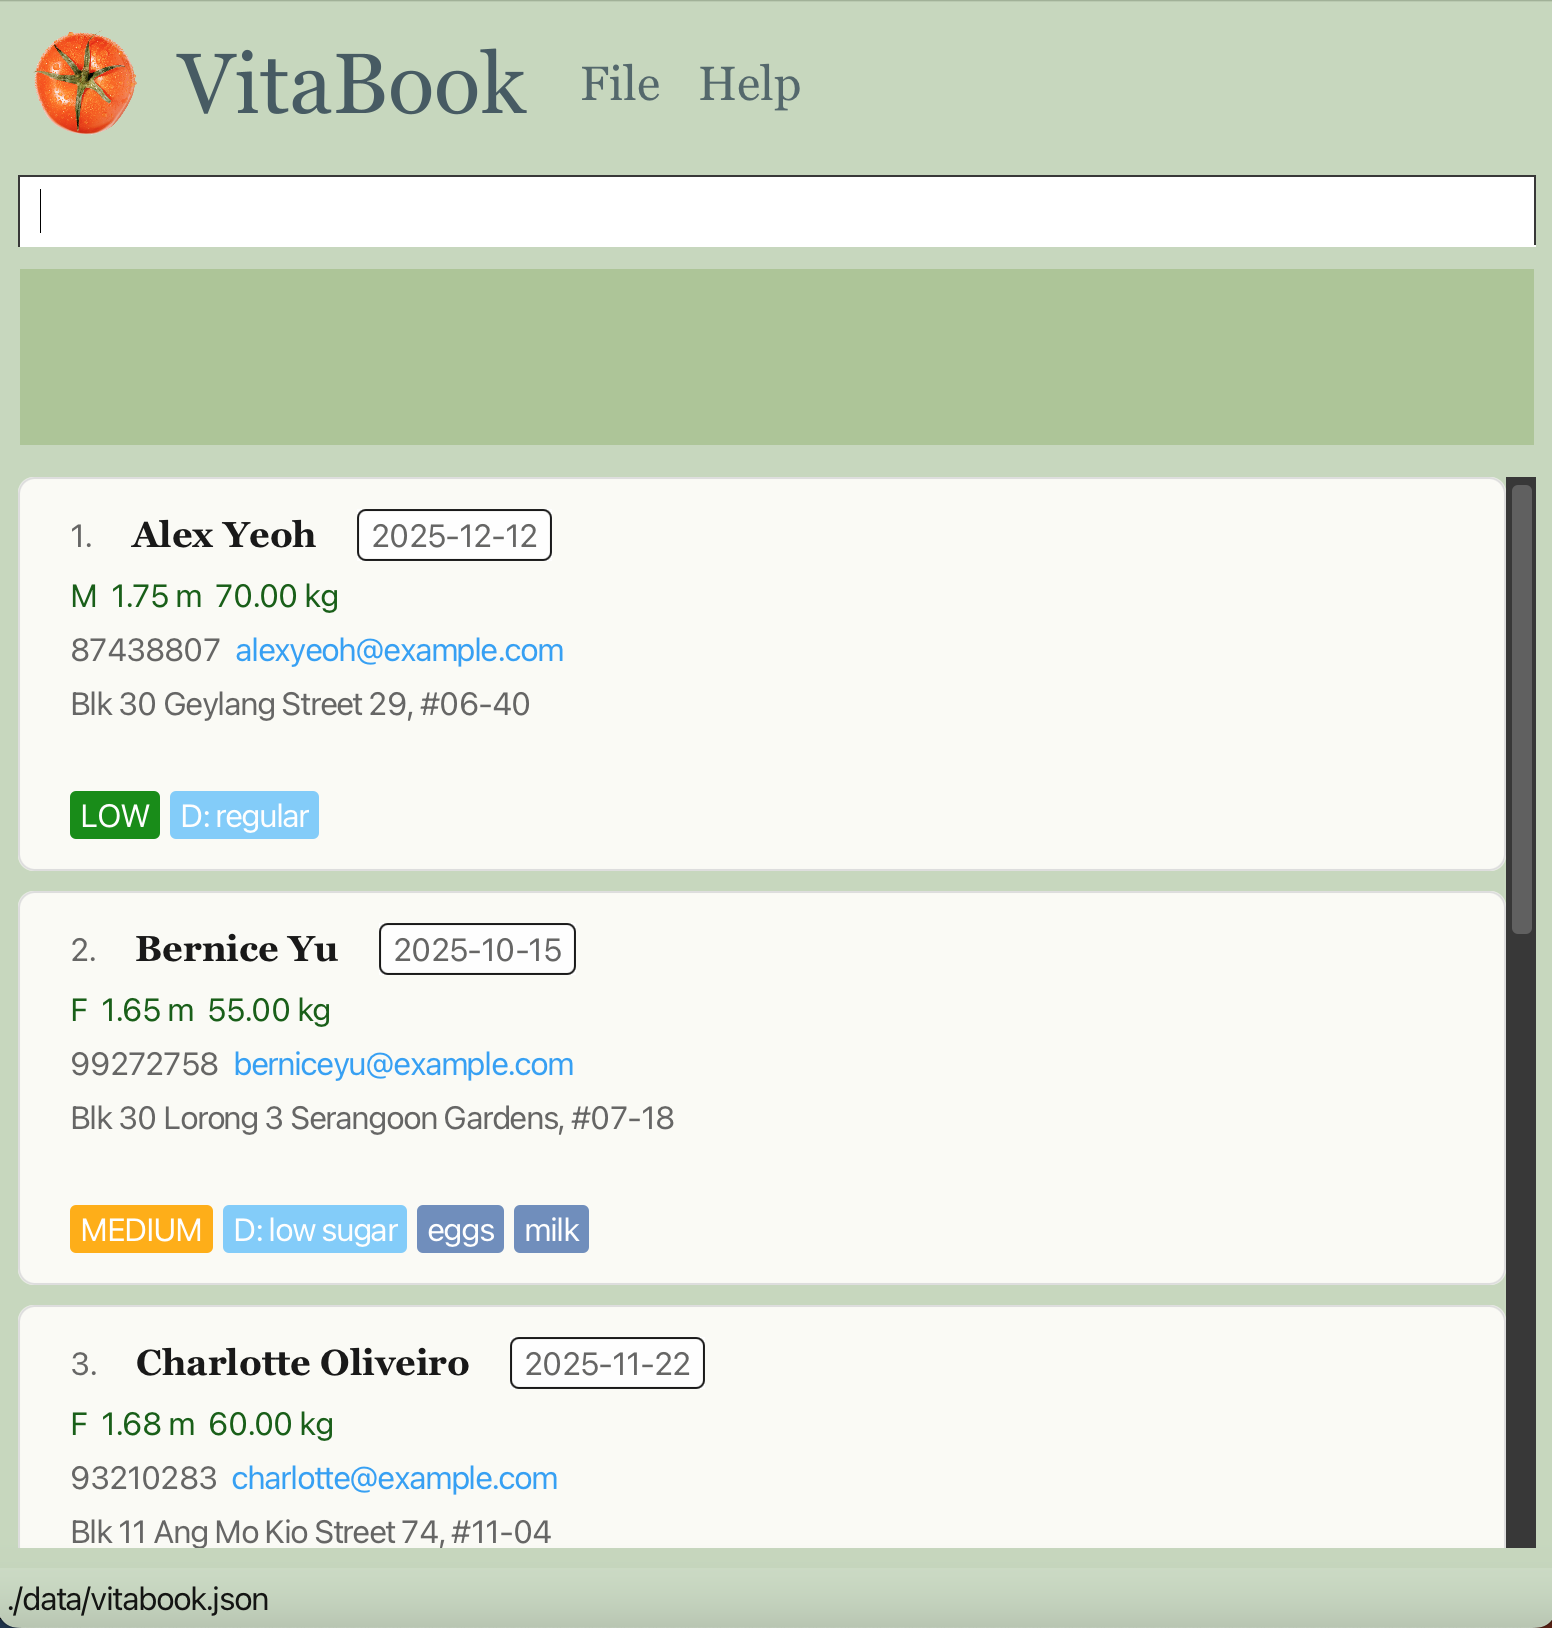
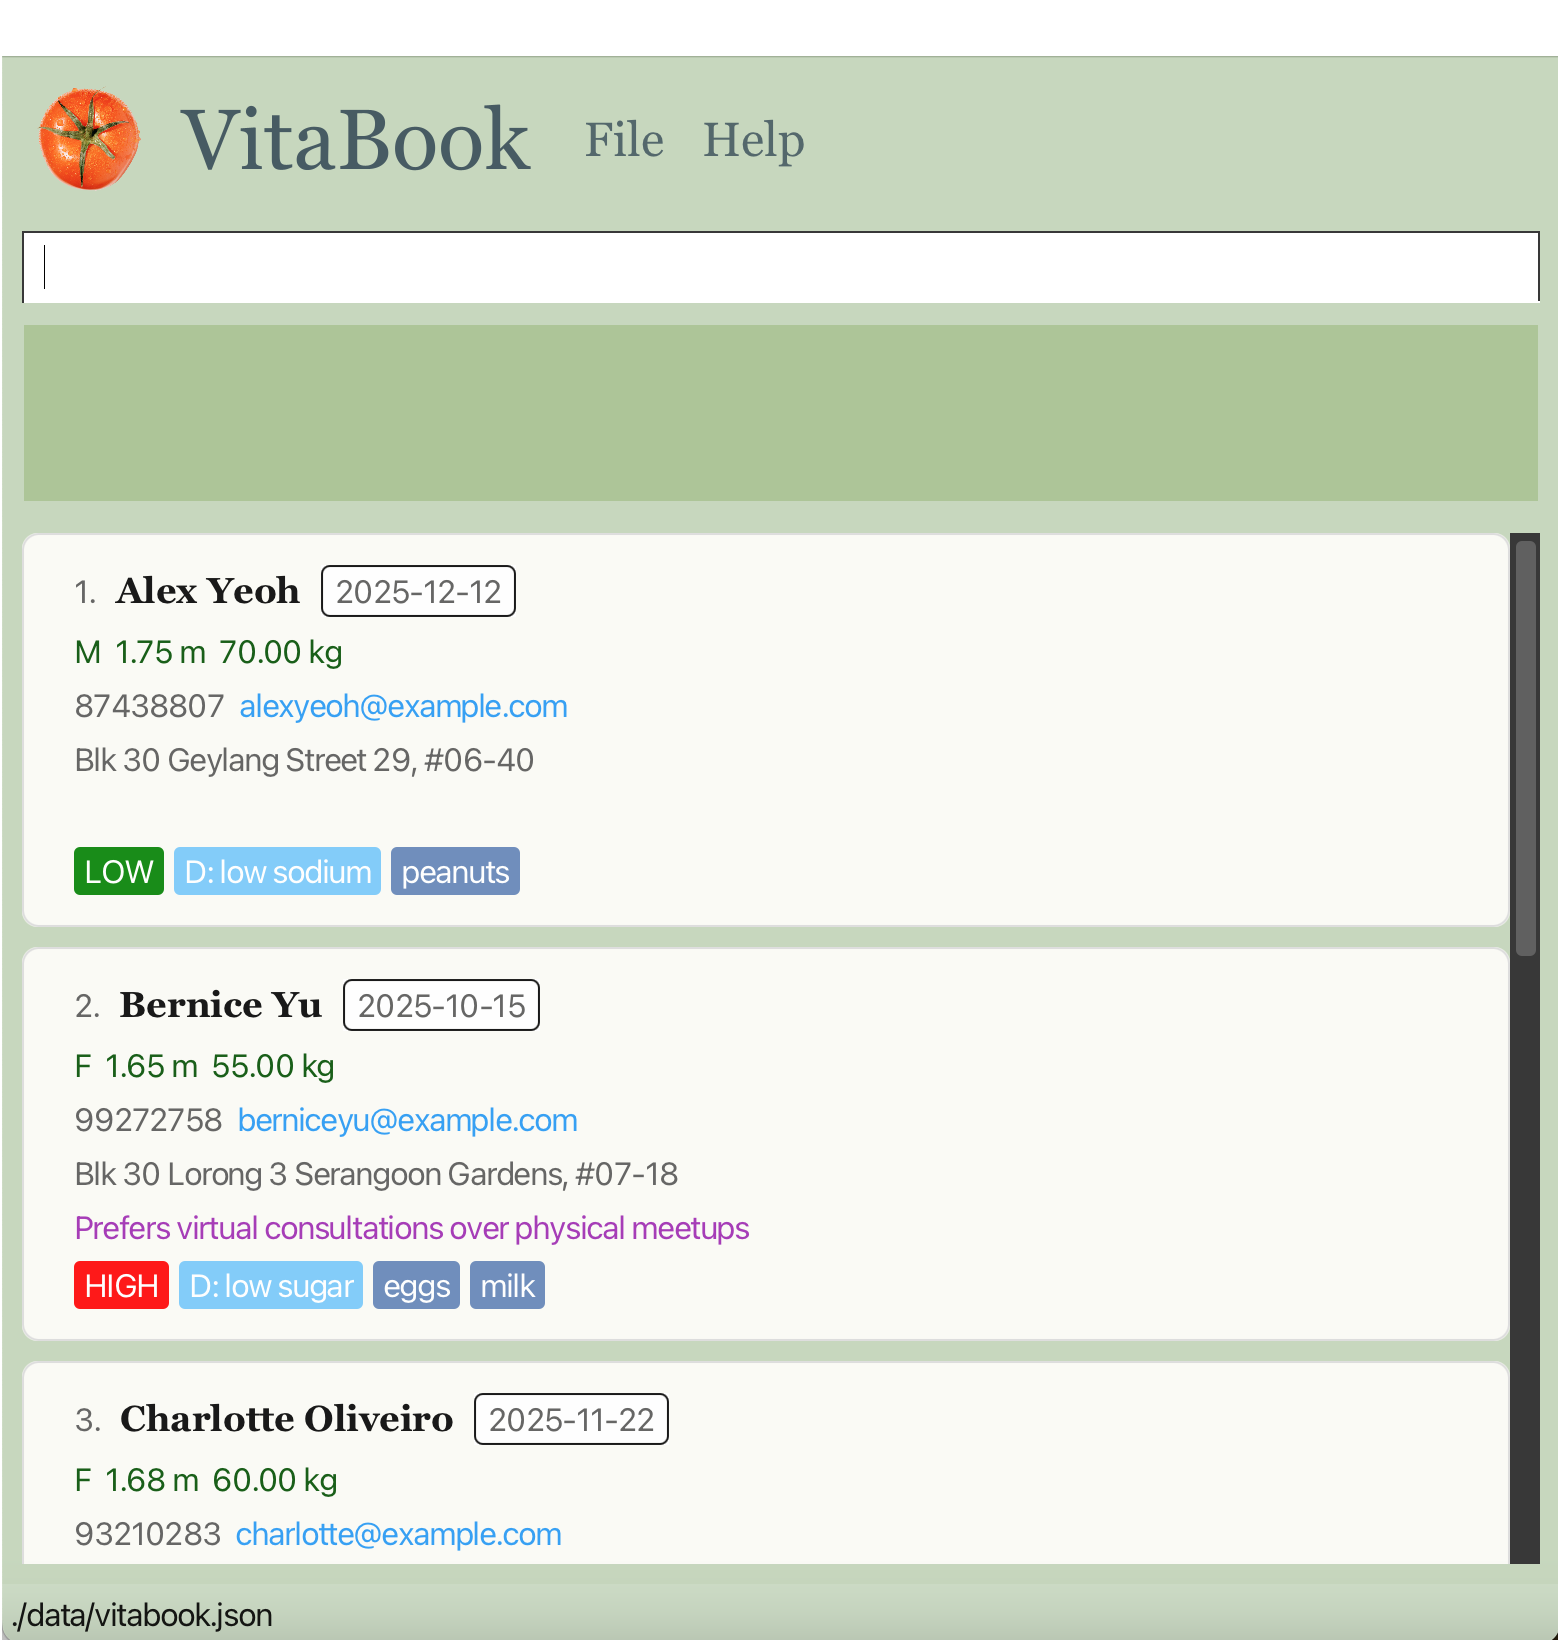
Update website look

Changed region(s): [[0.0, 0.0, 1.0, 1.0], [0.9897, 0.9828, 1.0, 1.0]]

diff --git a/docs/stylesheets/main.css b/docs/stylesheets/main.css
@@ -1,3 +1,48 @@
+:root {
+  /* New Color Palette */
+  --primary: #2a7f7b;       /* Teal - Professional & medical */
+  --secondary: #f8f9fa;     /* Light background */
+  --accent: #f05d5e;       /* Coral for important elements */
+  --text-dark: #343a40;    /* Dark gray for text */
+  --text-light: #6c757d;   /* Lighter text */
+  --card-bg: #ffffff;      /* Pure white for cards */
+  --highlight: #e9f5f5;    /* Very light teal for highlights */
+}
+
+body {
+  font-family: 'Inter', -apple-system, BlinkMacSystemFont, sans-serif;
+  background-color: var(--secondary);
+  color: var(--text-dark);
+  line-height: 1.6;
+}
+
+/* Header/Navbar */
+.navbar-dark {
+  background-color: var(--primary) !important;
+}
+
+/* Cards & Containers */
+.card, .patient-card {
+  background-color: var(--card-bg);
+  border: 1px solid rgba(0,0,0,0.1);
+  border-radius: 8px;
+  box-shadow: 0 2px 8px rgba(0,0,0,0.05);
+}
+
+/* Priority Tags */
+.high-priority { background-color: #ffdddd; color: #d32f2f; }
+.medium-priority { background-color: #fff3cd; color: #ff9800; }
+.low-priority { background-color: var(--highlight); color: var(--primary); }
+
+/* Diet Tags */
+.diet-tag {
+  background-color: #e8f5e9;
+  color: #2e7d32;
+  border-radius: 12px;
+  padding: 2px 8px;
+  font-size: 0.8em;
+}
+
 mark {
   background-color: #ff0;
   border-radius: 5px;
@@ -14,7 +59,6 @@ mark {
 }
 
 /* Scrollbar */
-
 .slim-scroll::-webkit-scrollbar {
   width: 5px;
 }
@@ -44,31 +88,30 @@ mark {
 }
 
 /* Layout containers */
-
 #flex-body {
   display: flex;
   flex: 1;
   align-items: start;
   flex-direction: row;
-   gap: 20px;
+  gap: 20px;
 }
 
 #content-wrapper {
   flex: 1;
-  margin: 0 auto;
+  margin: 0;
   min-width: 0;
   max-width: none;
-  padding: 0.8rem 40px 0 40px; /* Increased side padding */
-    width: 100%;
+  padding: 0.8rem 40px 0 40px;
+  width: 100%;
   transition: 0.4s;
   -webkit-transition: 0.4s;
 }
 
-.content-row {
+.home-content {
   display: flex;
   gap: 40px;
   align-items: flex-start;
-  margin-bottom: 2rem;
+  margin: 20px 0;
 }
 
 .text-content {
@@ -78,32 +121,31 @@ mark {
 
 .image-content {
   flex: 1;
-  max-width: 500px;
+  min-width: 300px;
 }
 
-.image-content img {
-  width: 100%;
-  height: auto;
-  border-radius: 8px;
-}
-
-/* Badge container */
-.badge-container {
+/* Badge styling */
+.badges {
   display: flex;
   gap: 10px;
   margin-bottom: 15px;
 }
 
-/* Badge images */
 .badge-image {
-  height: 20px;
-  width: auto;
+  height: 20px !important;
+  width: auto !important;
   transition: transform 0.2s ease;
 }
 
-/* Optional hover effect */
 .badge-image:hover {
   transform: scale(1.05);
+}
+
+/* Image styling */
+.app-screenshot {
+  max-width: 500px;
+  width: 100%;
+  border-radius: 8px;
 }
 
 #page-nav {
@@ -115,20 +157,15 @@ mark {
   max-width: 270px;
   max-height: calc(100vh - var(--sticky-header-height));
   width: 300px;
+  border-left: none;
 }
-
-
 
 .nav-component {
   overflow-y: auto;
 }
 
-#page-nav {
-  border-left: 1px solid lightgrey;
-  border-left: none;
-}
-
-@media screen and (max-width: 1299.98px) {
+/* Responsive adjustments */
+@media (max-width: 1299.98px) {
   #page-nav {
     display: none;
   }
@@ -140,68 +177,51 @@ mark {
   }
 }
 
-/* Bootstrap small(sm) responsive breakpoint */
 @media (max-width: 767.98px) {
-
+  .home-content,
   .content-row {
-      flex-direction: column;
-      gap: 20px;
-    }
+    flex-direction: column;
+    gap: 20px;
+  }
 
-    .image-content {
-      max-width: 100%;
-      order: -1; /* Optional: makes image appear first on mobile */
-    }
+  .image-content {
+    max-width: 100%;
+    min-width: 100%;
+    order: -1;
+  }
 
-    #content-wrapper {
-      padding: 0.8rem 15px 0 15px;
-    }
+  #content-wrapper {
+    padding: 0.8rem 15px 0 15px;
+  }
+
+  .indented {
+    padding-left: 10px;
+  }
 }
 
-/* Bootstrap extra small(xs) responsive breakpoint */
-@media screen and (max-width: 575.98px) {
+@media (max-width: 575.98px) {
   #site-nav {
     display: none;
   }
 }
 
-/* Hide site navigation when printing */
+/* Print styles */
 @media print {
-  #site-nav {
-    display: none;
-  }
-
+  #site-nav,
   #page-nav {
     display: none;
   }
 
-  /* Reduce font size when printing */
-  h1 {
-      font-size: 1.2rem !important;
-  }
-  h2 {
-      font-size: 1.0rem !important;
-  }
-  h3 {
-      font-size: 0.9rem !important;
-  }
-  h4 {
-      font-size: 0.8rem !important;
-  }
-  h5 {
-      font-size: 0.7rem !important;
-  }
-  body {
-      font-size: 0.65rem !important;
-  }
-  .btn {
-      font-size: 0.65rem !important;
-  }
-  img {
-      zoom: 0.8;  /* might not work on some browsers */
-  }
+  h1 { font-size: 1.2rem !important; }
+  h2 { font-size: 1.0rem !important; }
+  h3 { font-size: 0.9rem !important; }
+  h4 { font-size: 0.8rem !important; }
+  h5 { font-size: 0.7rem !important; }
+  body, .btn { font-size: 0.65rem !important; }
+  img { zoom: 0.8; }
 }
 
+/* Typography */
 h2,
 h3,
 h4,

diff --git a/docs/DeveloperGuide.md b/docs/DeveloperGuide.md
@@ -6,8 +6,6 @@ pageNav: 3
 
 # VitaBook Developer Guide
 
-## **About Us**
-
 **VitaBook** is a **desktop application for freelance nutritionists** 
 to manage patient profiles, dietary information, and follow-ups efficiently. 
 Built for speed and efficiency, VitaBook integrates a powerful **Command Line Interface (CLI)** with a clean 
@@ -997,19 +995,6 @@ User stories for the MVP version:
 | 3   | VitaBook saves any unsaved data.             | N.A.       |
 | 3   | VitaBook shuts down the CLI. Use case ends.  | N.A.       |
 
-### Non-Functional Requirements
-
-1.  Should work on any _mainstream OS_ as long as it has Java `17` or above installed.
-2.  Should be able to hold up to 1000 persons without a noticeable sluggishness in performance for typical usage.
-3.  A user with above average typing speed for regular English text (i.e. not code, not system admin commands) should be able to accomplish most of the tasks faster using commands than using the mouse.
-4.  Should respond within 5 seconds for most user interactions.
-5.  The application should be portable, working without an installer. It should be distributed in a single JAR file for easy execution on different platforms.
-6.  Data should be stored in a human-editable file, ensuring that the nutritionist can manually back up or recover patient data if needed.
-7.  The GUI should work well for standard screen resolutions 1920x1080 and higher, and, for screen scales 100% and 125%.
-8.  The GUI should be usable for resolutions 1280x720 and higher, and, for screen scales 150%.
-9.  The application should not use a DBMS to store data.
-10.  The product's file size, including the JAR file and necessary assets, should not exceed 100MB.
-11.  The user guide (UG) and design document (DG) should each be under 15MB, with optimized images and content to meet the file size limit.
 
 ## **Non-Functional Requirements (NFRs)**
 
@@ -1018,6 +1003,9 @@ User stories for the MVP version:
 |-----|-----------------------------------------------------------------------------|--------------------------|
 | P1  | 95% of commands (e.g., `add`, `list`) respond within **2 seconds** for 1,000 patients. | ≤2s latency             |
 | P2  | Startup time (from launch to ready state) under **3 seconds**.              | 3s max                  |
+| P3  |  A user with above average typing speed for regular English text (i.e. not code, not system admin commands) should be able to accomplish most of the tasks faster using commands than using the mouse. |
+| P4  | The product's file size, including the JAR file and necessary assets, should not exceed 100MB. |
+| P5  | The user guide (UG) and design document (DG) should each be under 15MB, with optimized images and content to meet the file size limit. |
 
 ### 2. **Usability**
 | ID  | Requirement                                                                 | Metric                   |
@@ -1030,12 +1018,14 @@ User stories for the MVP version:
 |-----|-----------------------------------------------------------------------------|
 | C1  | Works on **Windows 10+, macOS 12+, Linux (Ubuntu 20.04+)** with Java 17+.  |
 | C2  | Supports screen resolutions ≥1280x720 at 100-150% scaling.                  |
+| C3  | The application should be portable, working without an installer. It should be distributed in a single JAR file for easy execution on different platforms. |
 
 ### 4. **Data Integrity**
 | ID  | Requirement                                                                 |
 |-----|-----------------------------------------------------------------------------|
 | D1  | Auto-saves to `./data/vitabook.json` after every modifying command.         |
 | D2  | Data file must be human-editable (plaintext JSON) for emergency recovery.   |
+| D3 | The application should not use a DBMS to store data.  |
 
 ### 5. **Security**
 | ID  | Requirement                                                                 |
@@ -1047,9 +1037,9 @@ User stories for the MVP version:
 | ID  | Requirement                                                                 |
 |-----|-----------------------------------------------------------------------------|
 | SC1 | Supports up to **1,000 patients** without performance degradation.          |
-*{More to be added}*
 
----
+
+
 ## Glossary
 
 ### Core Concepts

diff --git a/docs/index.md b/docs/index.md
@@ -5,13 +5,12 @@ title: ""
 
 # VitaBook
 
-[![CI Status](https://github.com/se-edu/addressbook-level3/workflows/Java%20CI/badge.svg)](https://github.com/se-edu/addressbook-level3/actions)
-[![codecov](https://codecov.io/gh/se-edu/addressbook-level3/branch/master/graph/badge.svg)](https://codecov.io/gh/se-edu/addressbook-level3)
-
-![Ui](images/Ui.png)
-
 **VitaBook is a desktop application for managing your contact details.** While it has a GUI, most of the user interactions happen using a CLI (Command Line Interface).
 
 * If you are interested in using VitaBook, head over to the [_Quick Start_ section of the **User Guide**](UserGuide.html#quick-start).
 * If you are interested about developing VitaBook, the [**Developer Guide**](DeveloperGuide.html) is a good place to start.
 
+[![CI Status](https://github.com/se-edu/addressbook-level3/workflows/Java%20CI/badge.svg)](https://github.com/se-edu/addressbook-level3/actions)
+[![codecov](https://codecov.io/gh/se-edu/addressbook-level3/branch/master/graph/badge.svg)](https://codecov.io/gh/se-edu/addressbook-level3)
+
+![Ui](images/Ui.png)

diff --git a/docs/_markbind/layouts/default.md b/docs/_markbind/layouts/default.md
@@ -1,10 +1,18 @@
+<head>
+  <!-- Google Fonts MUST be first -->
+  <link rel="preconnect" href="https://fonts.googleapis.com">
+  <link rel="preconnect" href="https://fonts.gstatic.com" crossorigin>
+  <link href="https://fonts.googleapis.com/css2?family=Inter:wght@300;400;500;600;700&display=swap" rel="stylesheet">
+</head>
 <head-bottom>
   <link rel="stylesheet" href="{{baseUrl}}/stylesheets/main.css">
 </head-bottom>
 
 <header sticky>
   <navbar type="dark">
-    <a slot="brand" href="{{baseUrl}}/index.html" title="Home" class="navbar-brand">VitaBook</a>
+    <a slot="brand" href="{{baseUrl}}/index.html" title="Home" class="navbar-brand">
+    <img src="{{baseUrl}}/images/VitaBookLogo.png" alt="VitaBook" style="height: 40px;">
+    </a>
     <li><a href="{{baseUrl}}/index.html" class="nav-link">Home</a></li>
     <li><a href="{{baseUrl}}/UserGuide.html" class="nav-link">User Guide</a></li>
     <li><a href="{{baseUrl}}/DeveloperGuide.html" class="nav-link">Developer Guide</a></li>
